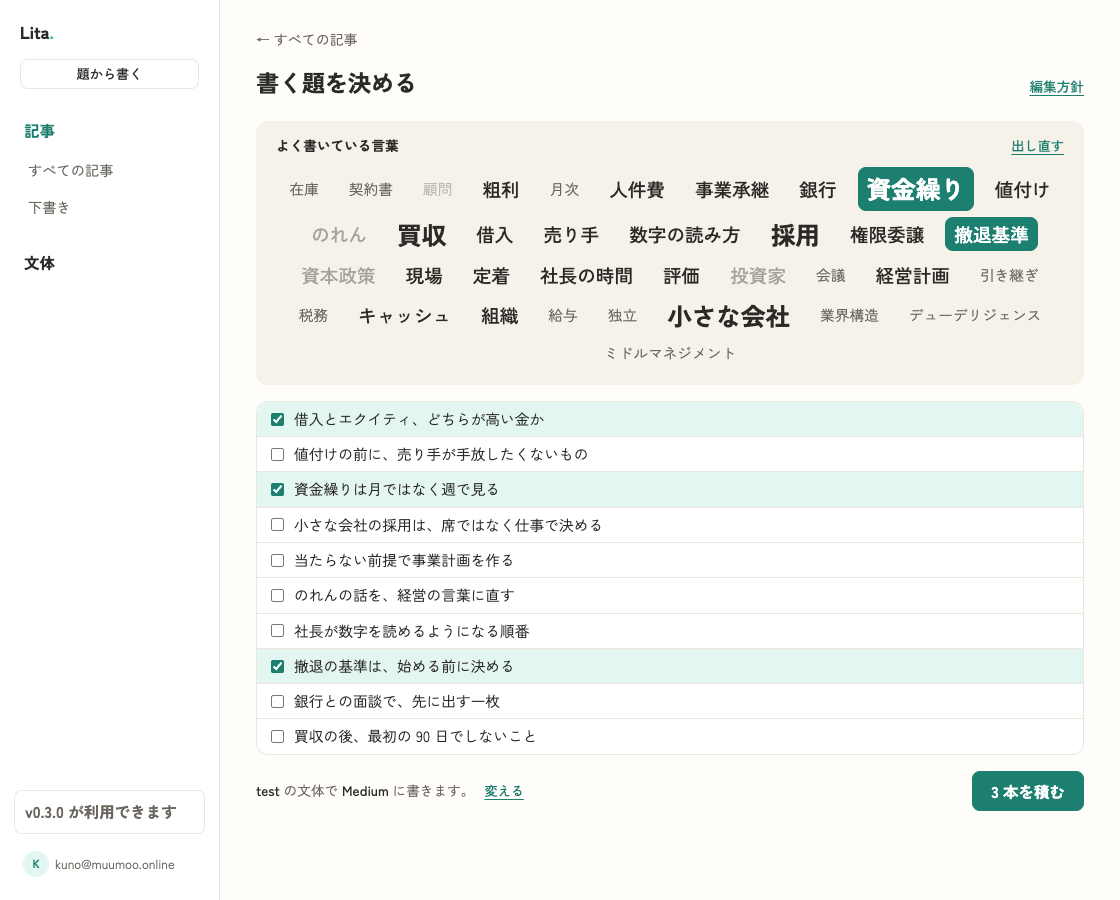
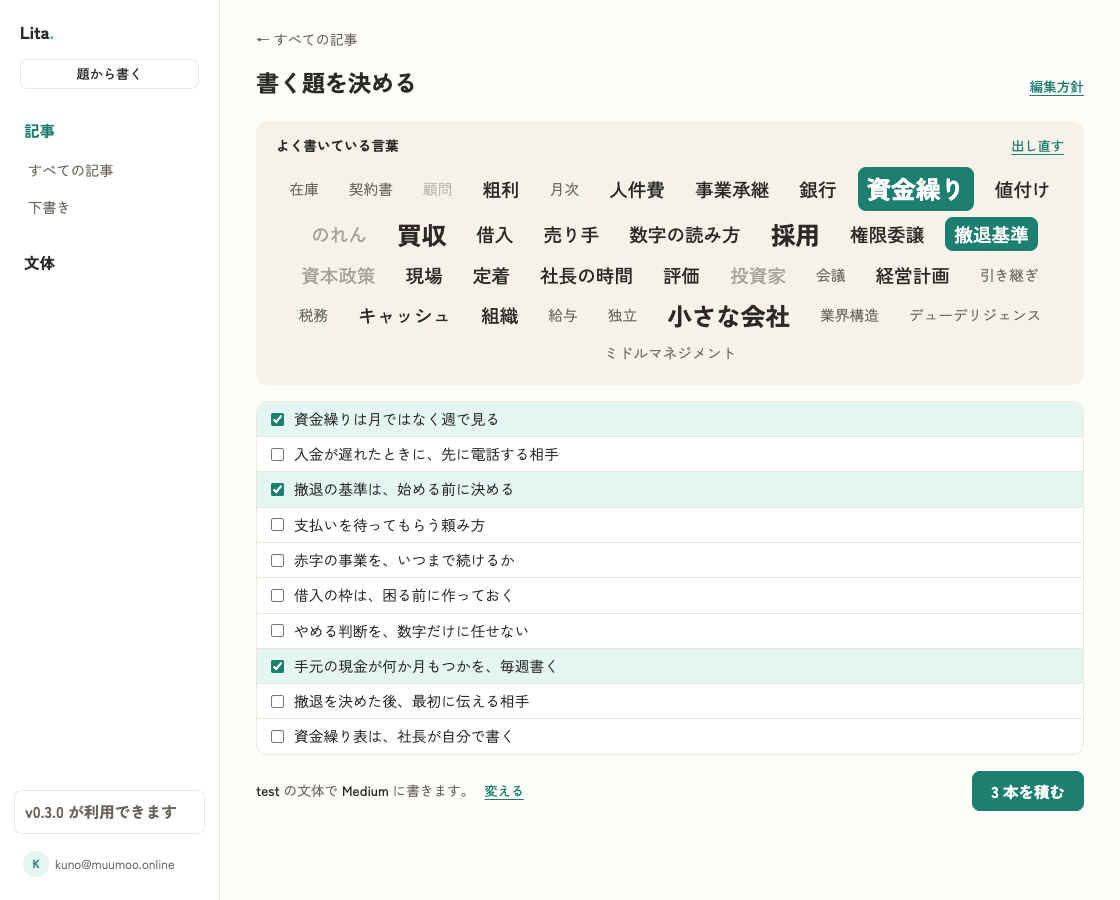
fix(topics): save the open policy, stack with the offered words, order the picked scene (#128)

Changed region(s): [[0.25, 0.4356, 0.5312, 0.84]]

diff --git a/src/components/TopicPicker.tsx b/src/components/TopicPicker.tsx
@@ -41,6 +41,9 @@ export function TopicPicker({ onBack, onQueued, onGoVoices }: Props) {
   const [gathering, setGathering] = useState(false);
   const [cloudFailed, setCloudFailed] = useState(false);
   const [subjects, setSubjects] = useState<string[]>([]);
+  // The words the titles on screen were offered from. Words pressed after
+  // that only count once the titles are offered again.
+  const [offeredWith, setOfferedWith] = useState<string[]>([]);
   // The policy starts closed every time (D-71); whether it was open is not kept.
   const [policyOpen, setPolicyOpen] = useState(() => mockScene()?.startsWith("topics-policy-open") ?? false);
   // Whether all three lines were empty when it was opened: the one sentence
@@ -49,10 +52,12 @@ export function TopicPicker({ onBack, onQueued, onGoVoices }: Props) {
   const [changing, setChanging] = useState(false);
   const policyLink = useRef<HTMLButtonElement>(null);
   const policyFirst = useRef<HTMLInputElement>(null);
+  const policySection = useRef<HTMLElement>(null);
   const voiceSelect = useRef<HTMLSelectElement>(null);
   // Which gather is the current one. Stopping bumps it, so a reply that
   // arrives afterwards is ignored and the previous words stay.
   const gatherRun = useRef(0);
+  const once = useRef(false);
   const policyRef = useRef(policy);
   policyRef.current = policy;
 
@@ -90,8 +95,15 @@ export function TopicPicker({ onBack, onQueued, onGoVoices }: Props) {
     void host.getTopicCloud().then((v) => {
       setCloud(v.cloud);
       setMaterialCount(v.material_count);
-      if (v.cloud) setSubjects(scenePicks(v.cloud));
+      const picks = v.cloud ? scenePicks(v.cloud) : [];
+      if (v.cloud) setSubjects(picks);
       if (!v.cloud && v.material_count > 0) void gather(false);
+      // The mock's "three picked" scenes start where a person would be after
+      // pressing the words, offering once, and choosing three.
+      if (isPickedScene() && !once.current) {
+        once.current = true;
+        void suggest(picks).then((list) => { if (list) setPicked([list[0], list[2], list[7]].filter(Boolean)); });
+      }
     }).catch(() => {});
     // eslint-disable-next-line react-hooks/exhaustive-deps
   }, []);
@@ -152,7 +164,7 @@ export function TopicPicker({ onBack, onQueued, onGoVoices }: Props) {
     } catch (e) { setError(asUiError(e)); } finally { setDrafting(false); }
   };
 
-  const suggest = async () => {
+  const suggest = async (words: string[] = subjects) => {
     setError(null);
     setWorking(true);
     setTopics(null);
@@ -160,23 +172,22 @@ export function TopicPicker({ onBack, onQueued, onGoVoices }: Props) {
     try {
       // The Rust command keeps its "direction" argument; nothing is typed any
       // more, so it goes empty (D-71). Briefs already queued keep theirs.
-      const list = await host.suggestTopics(subjects, "");
+      const list = await host.suggestTopics(words, "");
       setTopics(list);
-      // The titles take the room the open policy was using.
-      setPolicyOpen(false);
+      setOfferedWith(words);
+      // The titles take the room the open policy was using. Closing it removes
+      // the focused line without a blur, so what was typed is saved here, and
+      // the keyboard goes back to the link that reopens it.
+      const section = policySection.current;
+      if (section) {
+        const hadFocus = section.contains(document.activeElement);
+        savePolicy();
+        setPolicyOpen(false);
+        if (hadFocus) requestAnimationFrame(() => policyLink.current?.focus());
+      }
       return list;
     } catch (e) { setError(asUiError(e)); return null; } finally { setWorking(false); }
   };
-
-  // The mock's "three picked" scene starts where a person would be after
-  // pressing once and choosing three.
-  const once = useRef(false);
-  useEffect(() => {
-    if (once.current || (mockScene() !== "topics-picked" && mockScene() !== "topics-picked-few")) return;
-    once.current = true;
-    void suggest().then((list) => { if (list) setPicked([list[0], list[2], list[7]].filter(Boolean)); });
-    // eslint-disable-next-line react-hooks/exhaustive-deps
-  }, []);
 
   const toggle = (title: string) => setPicked((p) => (p.includes(title) ? p.filter((x) => x !== title) : p.length >= MAX_PICKS ? p : [...p, title]));
 
@@ -187,7 +198,7 @@ export function TopicPicker({ onBack, onQueued, onGoVoices }: Props) {
       await host.setPolicy(policyRef.current);
       // Lined up in the order they were offered, not the order they were ticked.
       const titles = (topics ?? []).filter((x) => picked.includes(x));
-      await host.enqueueArticles(titles, voiceId, platformId, "quality", subjects, "");
+      await host.enqueueArticles(titles, voiceId, platformId, "quality", offeredWith, "");
       onQueued(titles.length);
     } catch (e) { setError(asUiError(e)); setWorking(false); }
   };
@@ -224,7 +235,7 @@ export function TopicPicker({ onBack, onQueued, onGoVoices }: Props) {
       </div>
 
       {!noVoice && policyOpen && (
-        <section className="policy-open" aria-label={t("policy.title")}>
+        <section ref={policySection} className="policy-open" aria-label={t("policy.title")}>
           <div className="sect-head">
             <h4>{t("policy.title")}</h4>
             <span className="grow" />
@@ -364,6 +375,8 @@ export function TopicPicker({ onBack, onQueued, onGoVoices }: Props) {
     </div>
   );
 }
+
+const isPickedScene = () => mockScene() === "topics-picked" || mockScene() === "topics-picked-few";
 
 const isBlank = (p: Policy) => !p.audience.trim() && !p.takeaway.trim() && !p.avoid.trim();
 

diff --git a/src/platform/mock.ts b/src/platform/mock.ts
@@ -302,7 +302,19 @@ const topicRounds = [
 let topicRound = 0;
 
 // What ten titles look like once words have been pressed: every one of them
-// is about the subjects that were picked.
+// is about the subjects that were picked. Money and exit words get their own ten.
+const cashTitles = [
+  "資金繰りは月ではなく週で見る",
+  "入金が遅れたときに、先に電話する相手",
+  "撤退の基準は、始める前に決める",
+  "支払いを待ってもらう頼み方",
+  "赤字の事業を、いつまで続けるか",
+  "借入の枠は、困る前に作っておく",
+  "やめる判断を、数字だけに任せない",
+  "手元の現金が何か月もつかを、毎週書く",
+  "撤退を決めた後、最初に伝える相手",
+  "資金繰り表は、社長が自分で書く",
+];
 const subjectTitles = [
   "小さな会社の採用は、席ではなく仕事で決める",
   "入社 3 か月で辞める人と、辞めない人の差",
@@ -411,7 +423,8 @@ export const mockHost: T.Host = {
   suggestTopics: async (subjects, _direction) => {
     await wait(scene.startsWith("topics-picked") ? 200 : 1200);
     // Picked words steer the titles, so they are visibly about those subjects.
-    const list = subjects.length > 0 ? subjectTitles : topicRounds[topicRound % topicRounds.length];
+    const cash = subjects.some((w) => w === "資金繰り" || w === "撤退基準");
+    const list = subjects.length > 0 ? (cash ? cashTitles : subjectTitles) : topicRounds[topicRound % topicRounds.length];
     if (subjects.length === 0) topicRound += 1;
     const taken = new Set(articles.map((a) => a.title.trim()));
     return list.filter((t) => !taken.has(t));

diff --git a/docs/pm/dev/2026-09-26-topics-review-fixes.md b/docs/pm/dev/2026-09-26-topics-review-fixes.md
@@ -1,0 +1,48 @@
+# PR #130 レビュー対応（題を決める画面、#128）
+
+- 作成日: 2026-09-26
+- ブランチ: `feat/topics-simple-c`
+- 対象: PR #130 のコードレビューの指摘 3 件
+
+## やったこと
+
+| # | 指摘 | 直し方 |
+|---|---|---|
+| 1 | 題が届いたとき `suggest()` が編集方針を閉じるが保存しない（フォーカス中の input が消えても blur は起きない） | 方針の `<section>` に ref を付け、開いているときだけ、閉じる前に既存の `savePolicy()` を呼ぶ。フォーカスが方針の中にあったときは、閉じた後に「編集方針」リンクへ戻す（`closePolicy` と同じ行き先） |
+| 2 | 題が出たあとに押した言葉が、古い言葉で作った題と一緒に `enqueueArticles` に送られる | `offeredWith` を足し、題を出したときに使った言葉を覚える。`stack()` はそれを送る。UI は変えない。押し直した言葉は「出し直す」で反映される |
+| 3 | mock `topics-picked` で、言葉（資金繰り・撤退基準）を押す前に `suggest()` が走り、無関係な題が出る | 独立していた mock 用の effect を消し、雲の読み込みが終わった所で、押した言葉を引数に `suggest(picks)` を呼ぶ（`suggest` は言葉を引数で受けられるようにした。既定は今の `subjects`）。あわせて mock の `suggestTopics` に、資金繰り・撤退基準を押したときの 10 題（`cashTitles`）を足した。これまでは言葉を押すと採用の 10 題しか返らず、順番を直しても無関係な題になるため |
+
+## 触ったファイル
+
+- `src/components/TopicPicker.tsx`
+- `src/platform/mock.ts`（mock のみ。実ビルドには入らない）
+- `docs/pm/ux/topics-simple/impl/topics-picked.png`（撮り直し）
+- `docs/pm/dev/2026-09-26-topics-review-fixes.md`（この報告）
+
+## 実行したコマンドと結果
+
+- `npx tsc --noEmit -p tsconfig.json` → エラーなし
+- `npm run build` → 成功
+- `cargo test --workspace` → 59 passed, 0 failed（Rust は触っていない）
+- `cargo clippy --workspace --all-targets` → 既存の警告のみ（`crates/lita-codex/src/voice/` の 2 件。今回の差分とは無関係）
+- mock（`npm run mock` + headless Chrome）で `topics` / `topics-picked` / `topics-picked-few` / `topics-policy-open-filled` を撮影して目視
+- CDP で挙動を確認（`host.setPolicy` と `host.enqueueArticles` を包んで引数を記録）:
+  - 方針を開く → 「題を出す」→ 待っている間に 1 行目へ入力 → 題が届く: 方針は閉じ、`setPolicy` が入力した値で 1 回呼ばれ、フォーカスは「編集方針」リンクへ移った
+  - 「資金繰り」を押して題を出す → 題が出てから「採用」を押す → 1 題選んで積む: `enqueueArticles` の subjects は `["資金繰り"]`
+
+## 受け入れ条件ごとの判定
+
+| 条件 | 確かめ方 | 判定 |
+|---|---|---|
+| 題が届いて方針が閉じても、入力中の内容が保存される | CDP で `setPolicy` の呼び出しを記録 | ◎ |
+| 閉じたときにフォーカスが失われない | CDP で `document.activeElement` が「編集方針」 | ◎ |
+| 積むときは題を出したときの言葉を送る | CDP で `enqueueArticles` の引数を記録 | ◎ |
+| `topics-picked` で、押した言葉に対応する題が出る | 撮り直した PNG を目視（資金繰り・撤退基準の題 10 本、3 本選択） | ◎ |
+
+## PNG
+
+- `docs/pm/ux/topics-simple/impl/topics-picked.png`（差し替え）
+
+## 懸念
+
+- 3 の直しで mock の `suggestTopics` に題の組を 1 つ足しました。mock の中だけの変更です。
